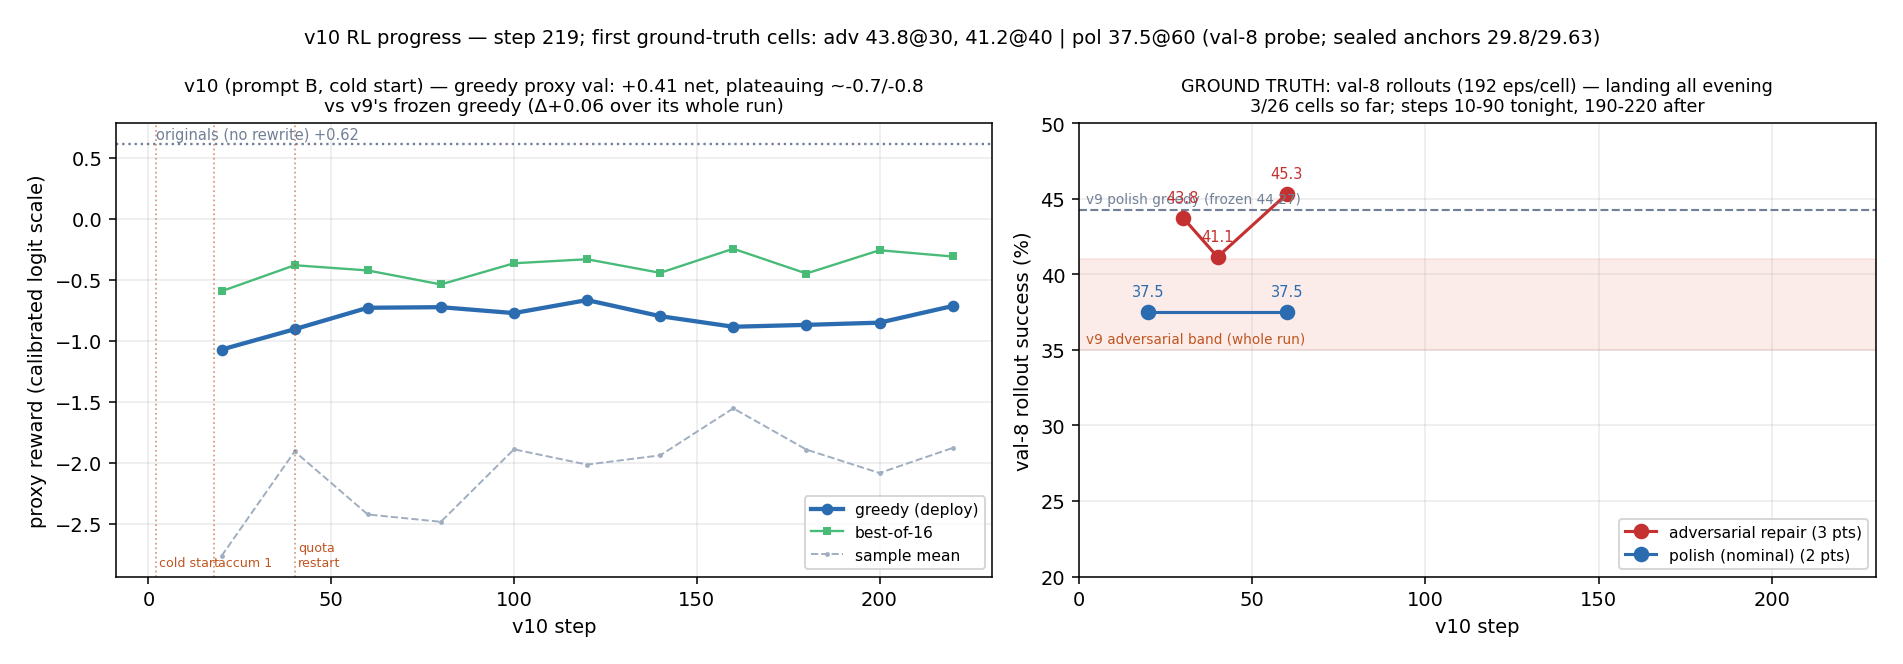
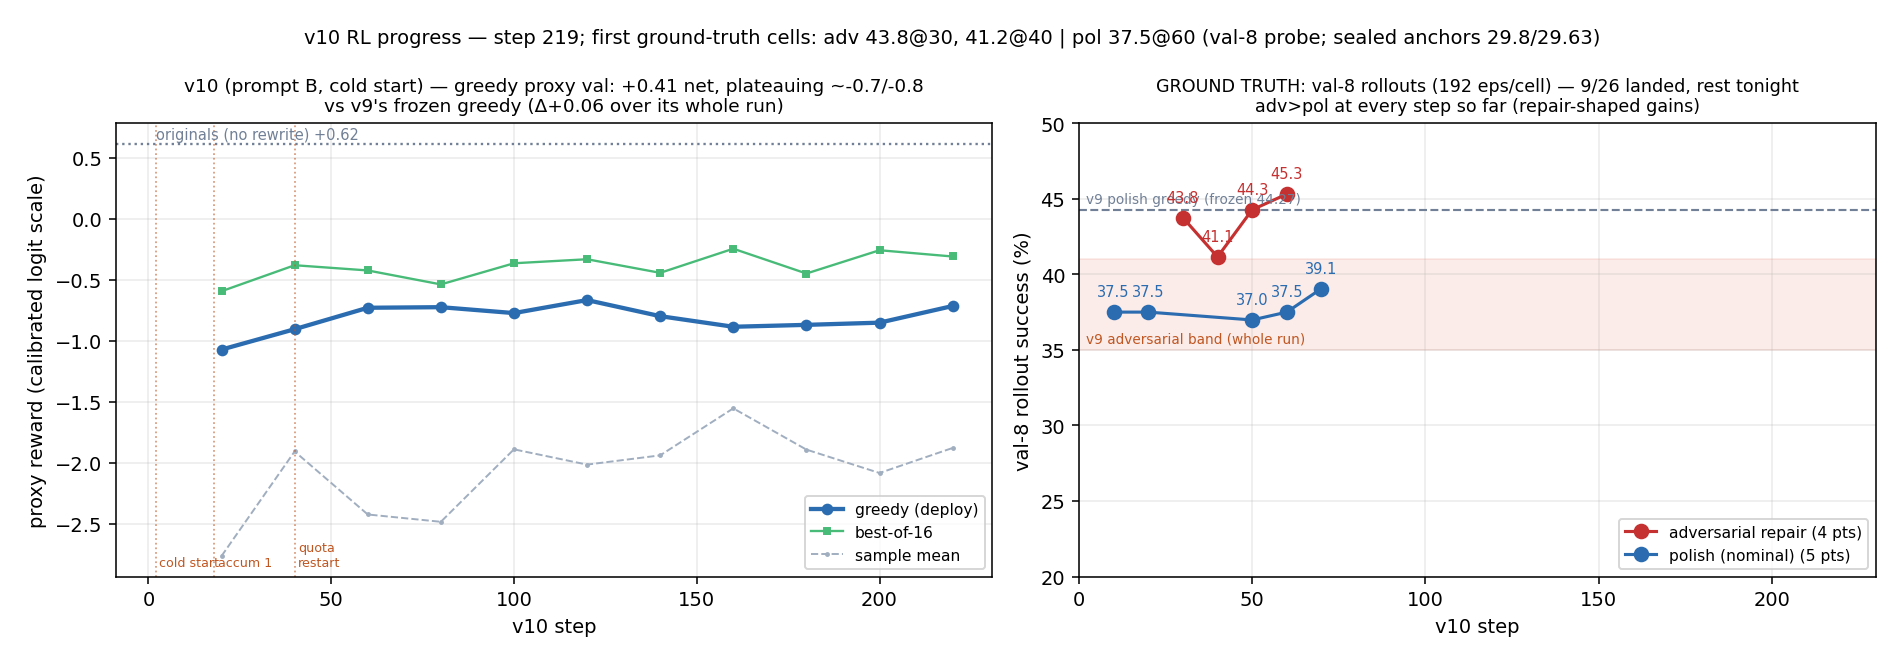
charts: v10 progress (9 cells) + day-2 Gantt (wedge era, repairs, retirements, leg queue)

diff --git a/scripts/make_fleet_gantt.py b/scripts/make_fleet_gantt.py
@@ -9,46 +9,64 @@ from matplotlib.patches import Patch
 
 C = {"sealed": "#a3bffa", "rr": "#fed7aa", "gen": "#b2f5ea",
      "train": "#d6bcfa", "worker": "#c6f6d5", "setup": "#e2e8f0"}
-NOW = 27.1  # 03:06 UTC Aug 6
+NOW = 43.8  # 19:50 Aug 6
 
 ROWS = [
-    ("L40S",    [("v10 RL training — step ~180, healthy", 4.0, 44.0, "train")]),
-    ("old Pod5",[("gens+0-11 leg STUCK on zombie gate 16h", 22.2, 38.2, "setup"),
-                 ("qwen 0-11 + lay12 (restarted)", 38.3, 50.0, "rr")]),
-    ("Eval 1",  [("leg done 03:13; idle (MISSED) ", 27.2, 38.1, "setup"), ("STOPPED 14:10", 38.15, 39.3, "gen")]),
-    ("Eval 2",  [("promptB_gemini_ert DONE 27.78", 20.95, 31.6, "sealed"), ("STOPPED 07:50", 31.7, 32.9, "gen")]),
-    ("Eval 3",  [("promptB_claude_ert DONE 27.98", 19.45, 28.2, "sealed"), ("consumer (fed 14:10)", 28.3, 44.0, "worker")]),
-    ("Eval 4",  [("promptB_gem_lay12 rolled 2304 — merging", 26.3, 38.4, "rr"), ("then consumer", 38.5, 44.0, "worker")]),
-    ("Eval 5",  [("promptB_cla_lay12 rolled 2304 — merging", 26.5, 38.4, "rr"), ("then consumer", 38.5, 44.0, "worker")]),
-    ("Eval 6",  [("v10 gen worker — 36 files freed 14:08", 4.0, 44.0, "worker")]),
-    ("Eval 7",  [("rulesv4_gem_lay12 DONE 33.51", 19.45, 28.8, "rr"), ("consumer (fed 14:10)", 28.9, 44.0, "worker")]),
-    ("Eval 8",  [("rulesv4_cla_lay12 DONE 31.94", 19.45, 31.2, "rr"), ("qwen rules 0-11 rolled — merging", 31.3, 38.4, "rr"),
-                 ("qwen lay12 next", 38.5, 44.5, "rr")]),
-    ("Eval 9",  [("STOPPED 03:20 (capability test)", 27.3, 28.5, "gen")]),
+    ("L40S",    [("v10 RL training — step 233/1000, healthy through host-error banner", 4.0, 46.0, "train"),
+                 ("archive drain -> ckpt-l40s branch (slow uplink)", 40.5, 46.0, "gen"),
+                 ("EVAC 100-180 -> pod6 OK", 43.2, 43.8, "setup")]),
+    ("Pod 5",   [("qwen gens + wedged gate", 22.2, 38.2, "setup"),
+                 ("promptB_qwen leg: 4.7x degraded host — killed", 38.3, 39.9, "rr"),
+                 ("RETIRED 15:55", 39.9, 41.0, "gen"),
+                 ("10-min resume: phrase rescue", 42.7, 43.1, "setup")]),
+    ("Eval 1",  [("leg done 03:13; idle; STOPPED 14:10 (now terminated)", 27.2, 38.2, "setup")]),
+    ("Eval 2",  [("promptB_gemini_ert DONE 27.78; STOPPED (terminated)", 20.95, 31.7, "sealed")]),
+    ("Eval 9",  [("STOPPED 03:20 capability test (terminated)", 27.3, 28.5, "gen")]),
+    ("Eval 3",  [("promptB_claude_ert DONE 27.98", 19.45, 28.2, "sealed"),
+                 ("consumer armed but repo-wedged (0 claims)", 28.3, 39.0, "setup"),
+                 ("cells: pol 20/50 + rolling", 39.0, 44.3, "worker"),
+                 ("leg queue ->", 44.4, 50.5, "rr")]),
+    ("Eval 4",  [("leg2 wait-loop wedged — never rolled", 26.3, 39.0, "setup"),
+                 ("cells: adv 40, pol 10 + rolling", 39.0, 44.3, "worker"),
+                 ("leg queue ->", 44.4, 50.5, "rr")]),
+    ("Eval 5",  [("leg2 wait-loop wedged — never rolled", 26.5, 39.0, "setup"),
+                 ("cells: adv 30/90 + rolling", 39.0, 44.3, "worker"),
+                 ("leg queue ->", 44.4, 50.5, "rr")]),
+    ("Eval 6",  [("v10 gen 10-90 done 03:25; repo wedge (files freed by hand 14:08)", 4.0, 38.1, "worker"),
+                 ("gen 190-220 pushed", 42.9, 43.6, "gen"),
+                 ("archive keeper: full 10-220 set; awaits step 230+", 43.6, 46.0, "worker")]),
+    ("Eval 7",  [("rulesv4_gem_lay12 DONE 33.51", 19.45, 28.8, "rr"),
+                 ("adv_10 roll HUNG 160/192 — killed, claim freed", 38.2, 40.0, "setup"),
+                 ("cells: adv 50/60 + rolling", 40.1, 44.3, "worker"),
+                 ("leg queue ->", 44.4, 50.5, "rr")]),
+    ("Eval 8",  [("rulesv4_cla_lay12 DONE 31.94", 19.45, 31.2, "rr"),
+                 ("qwenchain wait-loop wedged (phrases never reached origin)", 31.3, 39.0, "setup"),
+                 ("cells: pol 60/70 + rolling", 39.0, 44.3, "worker"),
+                 ("leg queue ->", 44.4, 50.5, "rr")]),
 ]
 
-fig, ax = plt.subplots(figsize=(13.5, 6.2))
+fig, ax = plt.subplots(figsize=(14.5, 6.6))
 for i, (pod, bars) in enumerate(ROWS):
     y = len(ROWS) - 1 - i
     for label, s, e, cat in bars:
         ax.barh(y, e - s, left=s, height=0.62, color=C[cat], edgecolor="#4a5568", lw=0.6)
         if e - s > 1.6:
-            ax.text((s + e) / 2, y, label, ha="center", va="center", fontsize=7.4, color="#2d3748")
+            ax.text((s + e) / 2, y, label, ha="center", va="center", fontsize=6.9, color="#2d3748")
 ax.axvline(NOW, color="#e53e3e", lw=1.4, ls="--")
-ax.text(NOW + 0.1, len(ROWS) - 0.35, "now 03:06", color="#e53e3e", fontsize=8)
+ax.text(NOW + 0.1, len(ROWS) - 0.35, "now 19:50", color="#e53e3e", fontsize=8)
 ax.set_yticks(range(len(ROWS)))
 ax.set_yticklabels([p for p, _ in reversed(ROWS)], fontsize=9.5)
-ticks = list(range(4, 33, 2))
+ticks = list(range(4, 51, 4))
 ax.set_xticks(ticks)
-ax.set_xticklabels([f"{t % 24:02d}:00" + ("\n(Aug 6)" if t >= 24 else "") for t in ticks], fontsize=8)
-ax.set_xlim(3.5, 32.5)
+ax.set_xticklabels([f"{t % 24:02d}:00" + ("\n(Aug 6)" if 24 <= t < 48 else ("\n(Aug 7)" if t >= 48 else "")) for t in ticks], fontsize=8)
+ax.set_xlim(3.5, 50.9)
 ax.grid(axis="x", alpha=0.25)
 ax.legend(handles=[Patch(color=C[k], label=l) for k, l in
                    [("sealed", "sealed roll (3,456 eps)"), ("rr", "robustness roll (2,304 eps)"),
-                    ("gen", "phrase generation"), ("train", "RL training"),
-                    ("worker", "checkpoint evals"), ("setup", "setup / seed")]],
+                    ("gen", "phrase gen / stop"), ("train", "RL training"),
+                    ("worker", "checkpoint eval cells"), ("setup", "wedge / incident / setup")]],
           fontsize=8, loc="lower left")
-ax.set_title("Fleet schedule — 2026-08-05 parallel push (times UTC; ETAs from measured A6000 throughput)", fontsize=10.5)
+ax.set_title("Fleet — Aug 5-6: wedge era (grey) -> 15:00 repair -> cells flowing; leg queue (2 lay12 + 4 qwen) auto-starts ~20:30 (times UTC)", fontsize=10)
 fig.tight_layout()
 fig.savefig("results/charts/fleet_gantt.png", dpi=140, bbox_inches="tight", pad_inches=0.2)
 print("chart -> results/charts/fleet_gantt.png")

diff --git a/scripts/make_v10_progress.py b/scripts/make_v10_progress.py
@@ -51,7 +51,7 @@ a2.set_xlim(0, 230)
 a2.set_ylim(20, 50)
 a2.set_xlabel("v10 step")
 a2.set_ylabel("val-8 rollout success (%)")
-a2.set_title("GROUND TRUTH: val-8 rollouts (192 eps/cell) — landing all evening\n3/26 cells so far; steps 10-90 tonight, 190-220 after", fontsize=9)
+a2.set_title(f"GROUND TRUTH: val-8 rollouts (192 eps/cell) — {len(cells)}/26 landed, rest tonight\nadv>pol at every step so far (repair-shaped gains)", fontsize=9)
 a2.legend(fontsize=8, loc="lower right")
 a2.grid(alpha=0.25)
 
